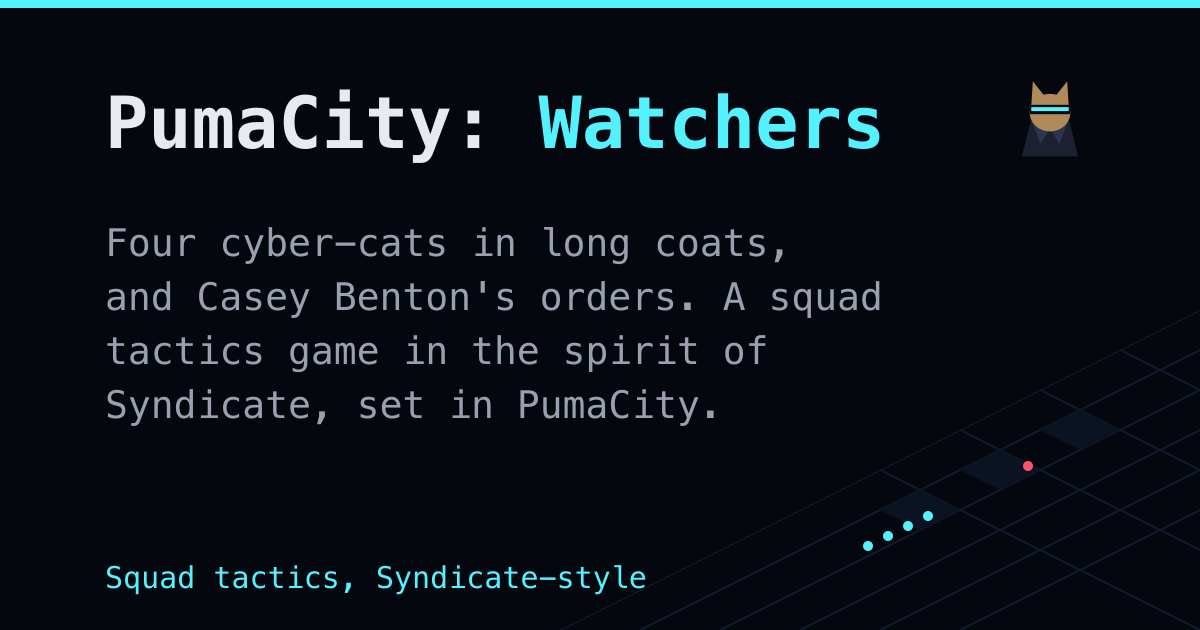
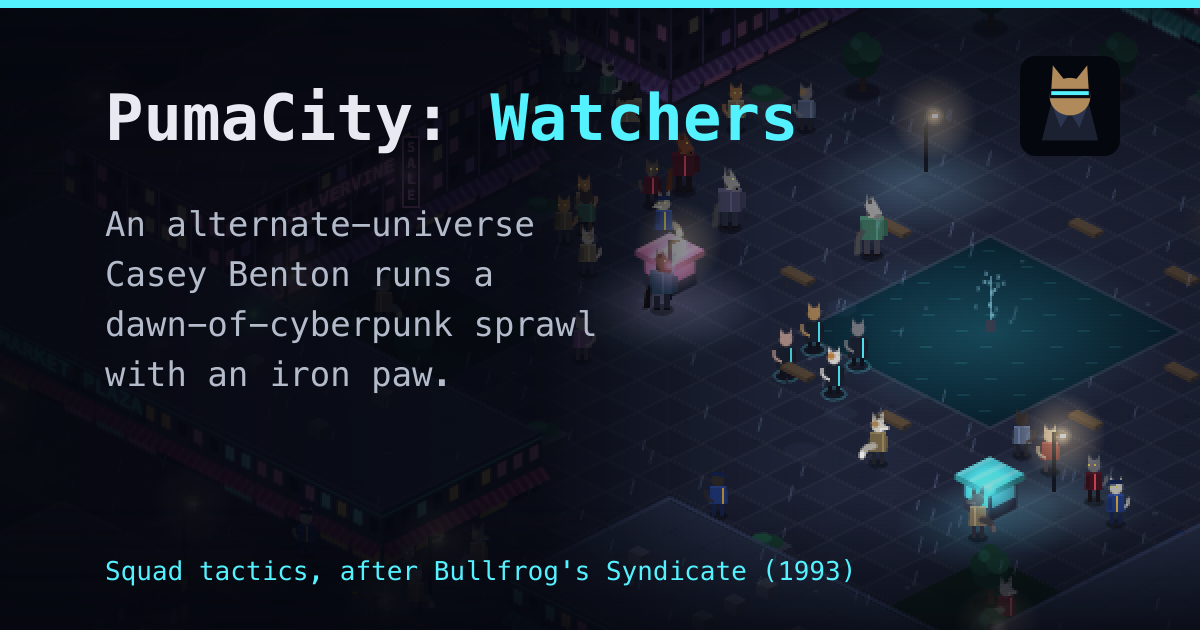
Share card: Market Plaza at night behind the words, the new pitch
The card's ground is a frame from the game's own renderer (pixel size 2),
the squad on the pavement by the fountain, kept as tools/og-scene.png and
shaded where the words sit. Its description and the page's six
description tags take the new About's opening; the tagline names
Bullfrog's Syndicate (1993) once instead of twice.

diff --git a/index.html b/index.html
@@ -4,23 +4,23 @@
 <meta charset="utf-8">
 <meta name="viewport" content="width=device-width,initial-scale=1,viewport-fit=cover">
 <title>PumaCity: Watchers</title>
-<meta name="description" content="Four cyber-cats in long coats, and Casey Benton&#x27;s orders. A squad tactics game in the spirit of Syndicate, set in PumaCity.">
+<meta name="description" content="An alternate-universe Casey Benton runs a dawn-of-cyberpunk sprawl with an iron paw. Manage the city while building an elite team of enforcers to push out a new rival.">
 <meta name="theme-color" content="#05070f">
 <meta name="color-scheme" content="dark">
 <meta name="referrer" content="no-referrer">
 <meta property="og:title" content="PumaCity: Watchers">
-<meta property="og:description" content="Four cyber-cats in long coats, and Casey Benton&#x27;s orders. A squad tactics game in the spirit of Syndicate, set in PumaCity.">
+<meta property="og:description" content="An alternate-universe Casey Benton runs a dawn-of-cyberpunk sprawl with an iron paw. Manage the city while building an elite team of enforcers to push out a new rival.">
 <meta property="og:type" content="website">
 <meta property="og:image" content="https://greykit.com/games/watchers/og.png">
 <meta property="og:image:width" content="1200">
 <meta property="og:image:height" content="630">
-<meta property="og:image:alt" content="Four cyber-cats in long coats, and Casey Benton&#x27;s orders. A squad tactics game in the spirit of Syndicate, set in PumaCity.">
+<meta property="og:image:alt" content="An alternate-universe Casey Benton runs a dawn-of-cyberpunk sprawl with an iron paw. Manage the city while building an elite team of enforcers to push out a new rival.">
 <meta property="og:url" content="https://greykit.com/games/watchers/">
 <meta name="twitter:card" content="summary_large_image">
 <meta name="twitter:title" content="PumaCity: Watchers">
-<meta name="twitter:description" content="Four cyber-cats in long coats, and Casey Benton&#x27;s orders. A squad tactics game in the spirit of Syndicate, set in PumaCity.">
+<meta name="twitter:description" content="An alternate-universe Casey Benton runs a dawn-of-cyberpunk sprawl with an iron paw. Manage the city while building an elite team of enforcers to push out a new rival.">
 <meta name="twitter:image" content="https://greykit.com/games/watchers/og.png">
-<meta name="twitter:image:alt" content="Four cyber-cats in long coats, and Casey Benton&#x27;s orders. A squad tactics game in the spirit of Syndicate, set in PumaCity.">
+<meta name="twitter:image:alt" content="An alternate-universe Casey Benton runs a dawn-of-cyberpunk sprawl with an iron paw. Manage the city while building an elite team of enforcers to push out a new rival.">
 <link rel="manifest" href="manifest.webmanifest">
 <link rel="apple-touch-icon" href="apple-touch-icon.png">
 <link rel="icon" type="image/svg+xml" href="icon.svg">
